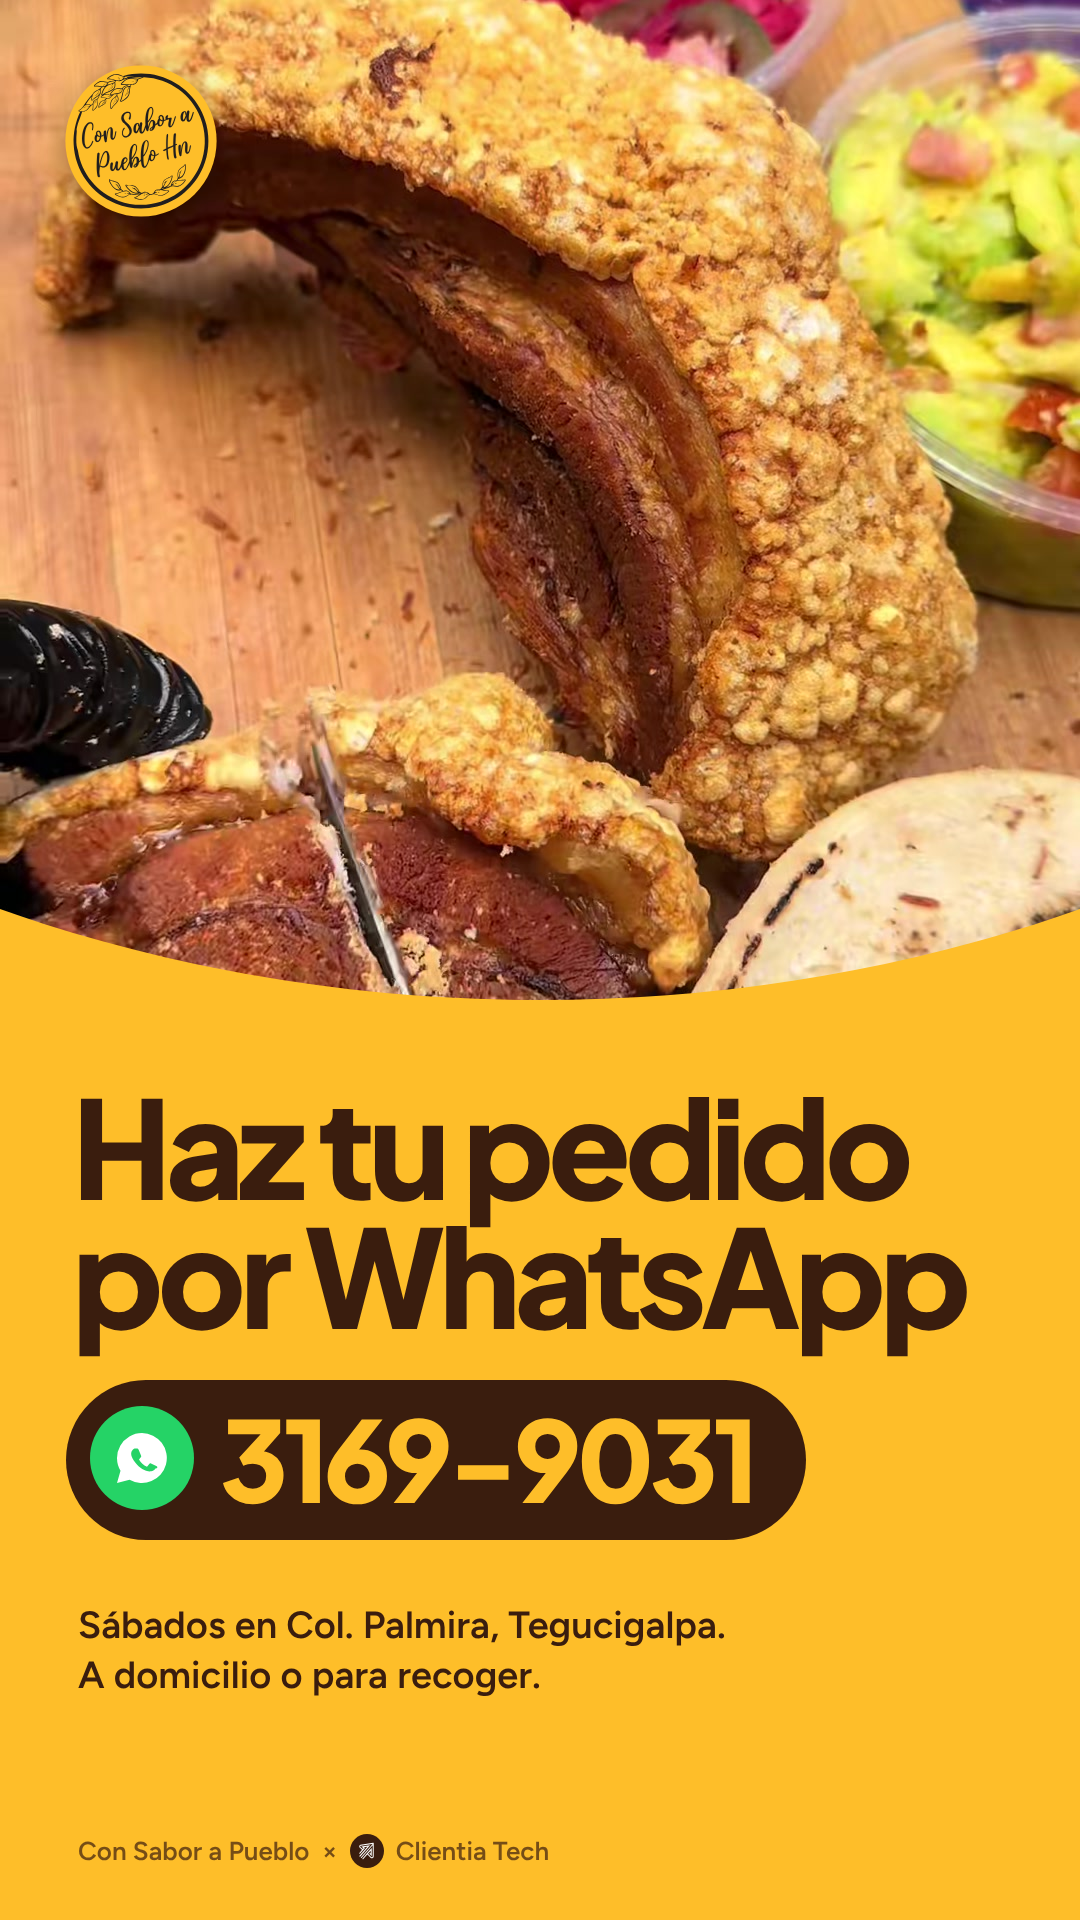
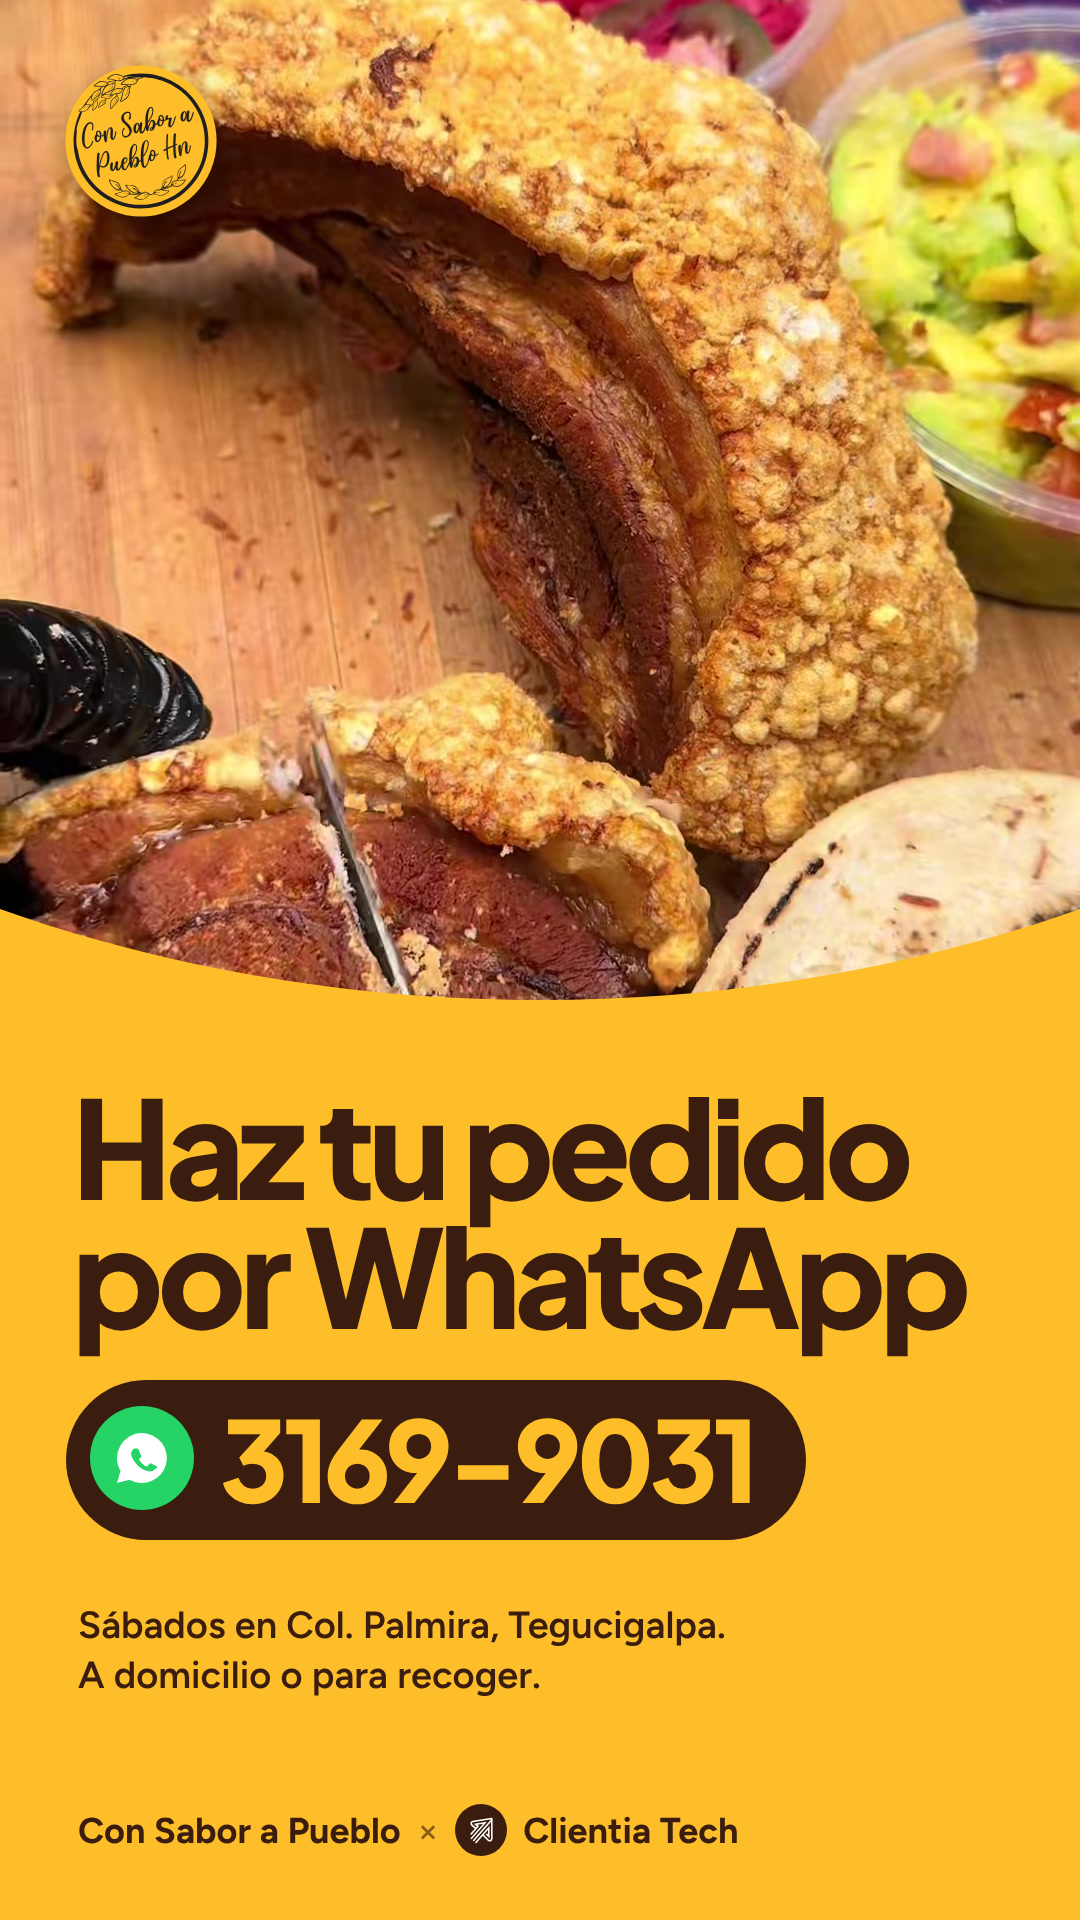
Póster: Clientia Tech más visible abajo
Claude-Session: https://claude.ai/code/session_01V6jKUfuk2EkWTKBu7Kdvtz

Changed region(s): [[0.0611, 0.9375, 0.6722, 0.9688]]

diff --git a/con-sabor-a-pueblo/anuncio/poster/poster.html b/con-sabor-a-pueblo/anuncio/poster/poster.html
@@ -27,9 +27,10 @@ h1 span{display:block;}
 .num i{flex:none;width:104px;height:104px;border-radius:50%;background:var(--wa);display:grid;place-items:center;}
 .num b{font-size:112px;line-height:1;color:var(--sol);}
 .info{position:absolute;left:78px;right:60px;top:1600px;font-size:38px;font-weight:600;line-height:1.32;}
-.pie{position:absolute;left:78px;right:60px;bottom:52px;display:flex;align-items:center;gap:12px;font-size:26px;font-weight:600;color:rgba(58,29,14,.7);}
-.pie .c{width:34px;height:34px;border-radius:50%;background:var(--cafe);display:grid;place-items:center;}
-.pie .c img{width:15px;height:18px;}
+.pie{position:absolute;left:78px;right:60px;bottom:64px;display:flex;align-items:center;gap:16px;font-size:36px;font-weight:700;color:var(--cafe);}
+.pie .c{width:52px;height:52px;border-radius:50%;background:var(--cafe);display:grid;place-items:center;}
+.pie .c img{width:23px;height:27px;}
+.pie .x{font-weight:500;opacity:.6;}
 /* A · sans limpia y gruesa, como Speedee de McDonald's */
 .jakarta h1,.jakarta .num b{font-family:"Jakarta";font-weight:800;letter-spacing:-.045em;}
 .jakarta h1{font-size:136px;line-height:.95;}
@@ -49,7 +50,7 @@ h1 span{display:block;}
 <h1><span>Haz tu pedido</span><span>por WhatsApp</span></h1>
 <div class="num"><i><svg width="60" height="60" viewBox="0 0 24 24" fill="#fff"><path d="M12 2a10 10 0 0 0-8.6 15.1L2 22l5-1.3A10 10 0 1 0 12 2zm5.5 14.1c-.2.6-1.3 1.2-1.8 1.2-.5.1-1.1.1-1.7-.1-1.6-.5-3.5-1.5-5.3-4.2-1.3-1.9-1.3-3.3-.4-4.3.3-.4.7-.5 1-.5h.7c.2 0 .5 0 .7.6l.9 2.2c.1.2.1.4 0 .6l-.8 1c.7 1.3 1.8 2.3 3.2 2.9l.9-1.1c.2-.3.4-.3.7-.2l2.1 1c.3.1.4.3.4.4 0 .2 0 .4-.1.5z"/></svg></i><b>3169-9031</b></div>
 <div class="info">Sábados en Col. Palmira, Tegucigalpa.<br>A domicilio o para recoger.</div>
-<div class="pie"><span>Con Sabor a Pueblo</span><span>×</span><span class="c"><img src="../src/clientia.svg" alt=""></span><span>Clientia Tech</span></div>
+<div class="pie"><span>Con Sabor a Pueblo</span><span class="x">×</span><span class="c"><img src="../src/clientia.svg" alt=""></span><span>Clientia Tech</span></div>
 <script>document.body.className = new URLSearchParams(location.search).get("v") || "jakarta";</script>
 </body>
 </html>
